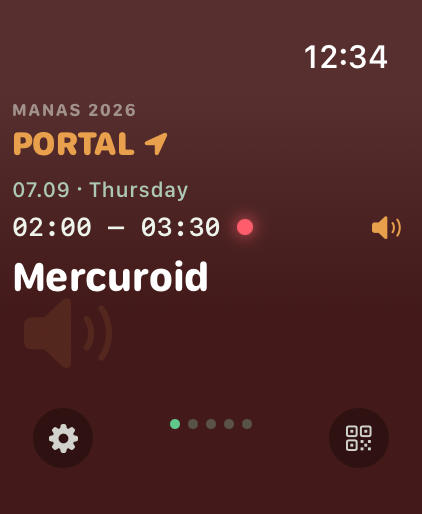
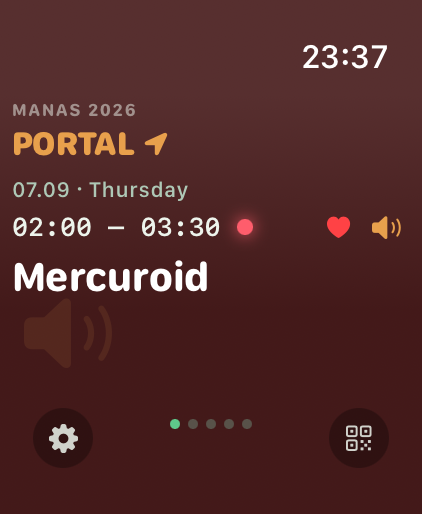
feat(apple): show favorites in the marketing screenshots
New DEBUG-gated -manas.startFavorites launch arg (comma-separated event
slugs, per-launch only — nothing persists) so the screenshot harness can
paint hearts deterministically; manas.favoriteStates joins the harness
reset list so manually-tapped favorites can't leak into shots. Five shots
now carry hearts: the Friday timetable, the Friday now view, the home
widgets (live act + up-next row), the watch Portal card, and the watch
Field widget.

Changed region(s): [[0.7085, 0.0934, 0.9242, 0.1556], [0.7701, 0.4047, 0.8318, 0.4669]]

diff --git a/apple/Sources/ManasKit/Favorites.swift b/apple/Sources/ManasKit/Favorites.swift
@@ -38,6 +38,16 @@ public final class FavoritesStore: ObservableObject {
            let decoded = try? JSONDecoder().decode([String: FavState].self, from: data) {
             states = decoded
         }
+        // Screenshot-harness override (DEBUG/TestFlight): `-manas.startFavorites
+        // "slug1,slug2"` replaces the set for THIS launch only — nothing is
+        // persisted here, so shots stay deterministic (like manas.debugNow).
+        if AppEnv.debugToolsEnabled,
+           let raw = defaults.string(forKey: "manas.startFavorites"), !raw.isEmpty {
+            let now = Date().timeIntervalSince1970
+            states = Dictionary(uniqueKeysWithValues: raw.split(separator: ",").map {
+                ($0.trimmingCharacters(in: .whitespaces), FavState(isFav: true, ts: now))
+            })
+        }
         favorites = Set(states.filter { $0.value.isFav }.keys)
         mirrorForWidget()
         #if canImport(WatchConnectivity)

diff --git a/apple/screenshots/make_screenshots.py b/apple/screenshots/make_screenshots.py
@@ -42,6 +42,9 @@ RESET_KEYS = [
     "manas.locale", "manas.debugNow", "manas.debugCoord", "manas.columns",
     "manas.fontSize", "manas.order", "manas.hidden", "manas.startView",
     "manas.hideTestUI", "manas.disclaimerSeen",
+    # Manually-tapped favorites persist here; clear them so only a shot's
+    # `favorites:` (-manas.startFavorites, per-launch) shows hearts.
+    "manas.favoriteStates",
 ]
 
 
@@ -153,6 +156,8 @@ def launch_args(shot: dict, lang: str, coords: dict) -> list[str]:
     a += ["-manas.fontSize", str(shot.get("font", 3))]
     if shot.get("empty"):                       # watch: force the "nothing on" card
         a += ["-manas.startNoProgram", "YES"]
+    if fav := shot.get("favorites"):            # comma-separated event slugs → hearts
+        a += ["-manas.startFavorites", str(fav)]
     view = shot.get("view")
     if view in ("timetable", "now", "share", "settings"):
         a += ["-manas.startView", view]

diff --git a/apple/CLAUDE.md b/apple/CLAUDE.md
@@ -191,7 +191,8 @@ disclaimer with `-manas.disclaimerSeen 1`.
   scripted capture. Extra invisible, DEBUG-gated screenshot-only defaults beyond
   the two above: `manas.startView` (`timetable`/`now`/`share` tab or `settings`
   sheet), `manas.hideTestUI` (hide the in-app Testing section),
-  `manas.startWidgetPreview` (render widget card(s) full-screen — watch: one stage
+  `manas.startWidgetPreview` (render widget card(s) full-screen — watch: one stage, and
+  `manas.startFavorites` (comma-separated event slugs → red hearts, per-launch).
   slug; iPhone: `"medium,small"` slugs, e.g. `bowl,terrace`, for the two home-widget
   sizes). The widget shots reuse the real widget views (`ManasKit/NowWidgetCard.swift`
   and `ManasKit/HomeWidgetCard.swift`, so the apps + the WidgetKit extensions share
